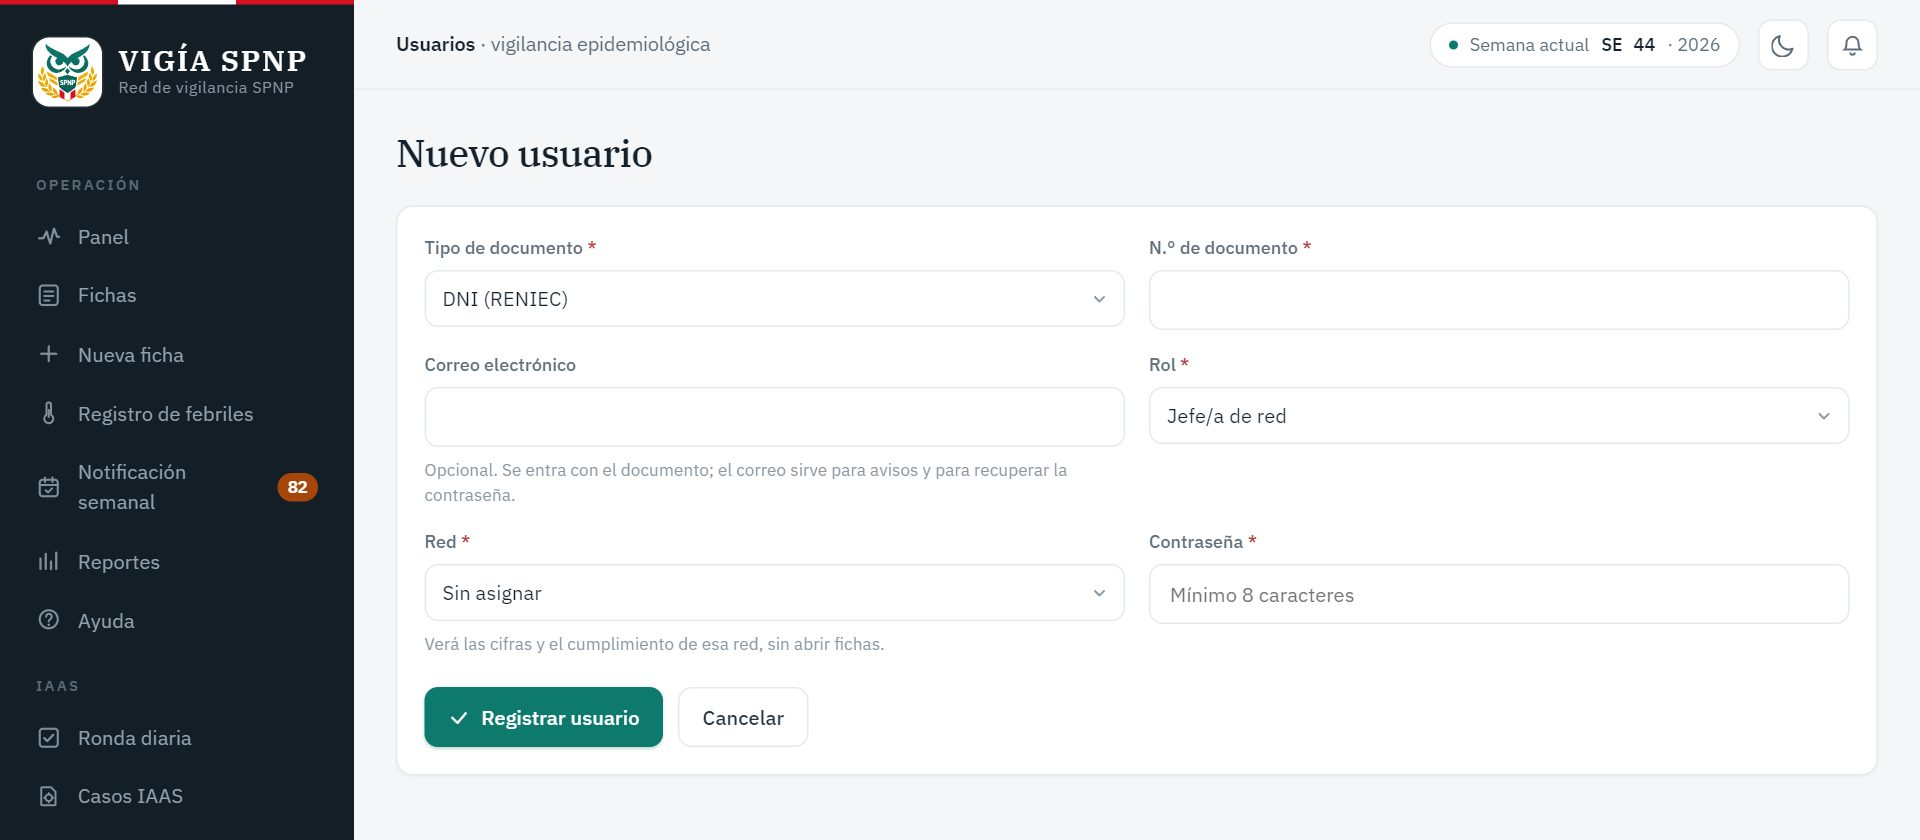
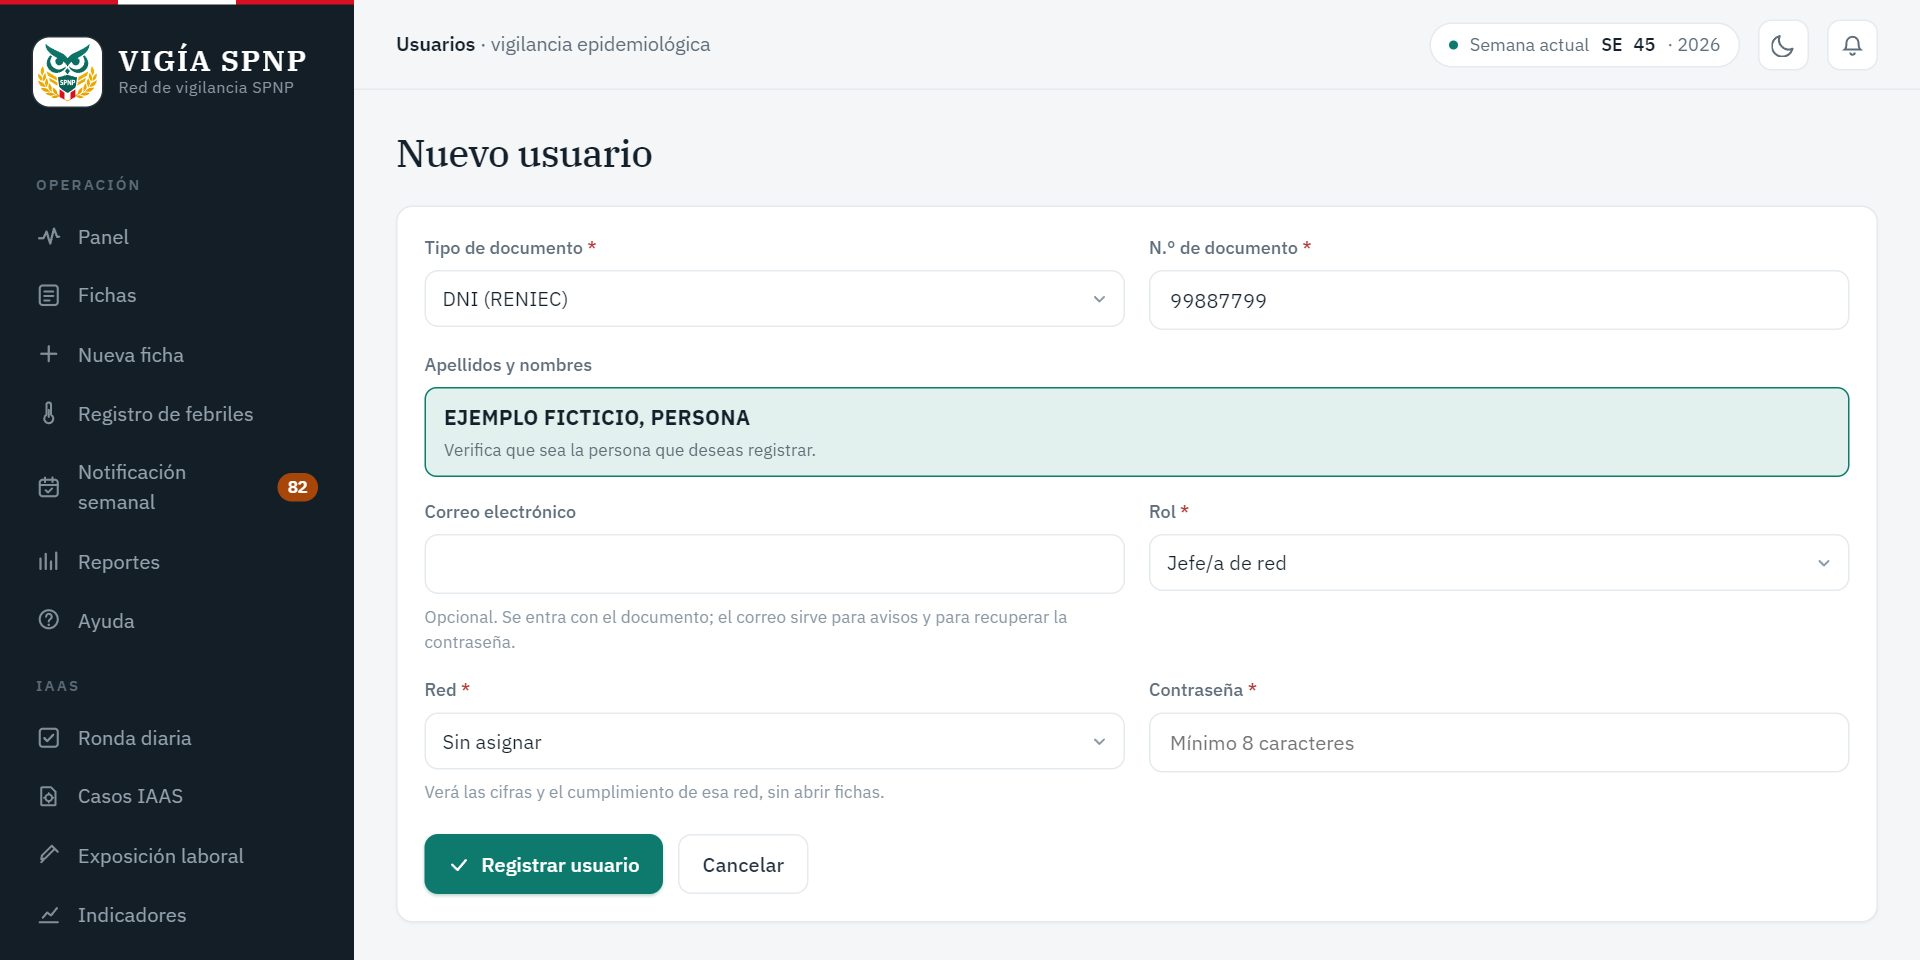
Nuevo usuario: apellidos y nombres del documento antes de guardar
Al escribir el documento, el formulario consulta el padrón local y
RENIEC (la misma búsqueda que al guardar) y muestra a quién corresponde,
con aviso si ya tiene usuario. Si no aparece, abre los campos para
digitar los datos. Guía del administrador y su captura actualizadas.

diff --git a/public/js/usuario-documento.js b/public/js/usuario-documento.js
@@ -1,0 +1,66 @@
+// Formulario de usuario (2026-11-09): al ingresar el documento se muestran los
+// apellidos y nombres (padrón local o RENIEC) para confirmar que es la persona
+// correcta. Si no aparece, se abren los campos para digitarlos.
+(function () {
+  var tipo = document.getElementById('usuarioTipoDoc');
+  var num = document.getElementById('usuarioNumDoc');
+  var caja = document.getElementById('usuarioPersona');
+  if (!tipo || !num || !caja) return;
+  var manuales = document.querySelectorAll('[data-manual]');
+  // Con el nombre ya pintado por el servidor, no se repite la búsqueda.
+  var ultima = caja.dataset.inicial ? caja.dataset.docInicial : '';
+  var pedido = 0;
+
+  function mostrarManual(si) {
+    manuales.forEach(function (c) {
+      c.hidden = !si;
+      c.querySelectorAll('[data-requerido]').forEach(function (i) { i.required = si; });
+    });
+  }
+  function pintar(clase, html) {
+    caja.className = 'usuario-persona' + (clase ? ' ' + clase : '');
+    caja.innerHTML = html;
+  }
+  function texto(t) { var d = document.createElement('div'); d.textContent = t; return d.innerHTML; }
+
+  function buscar() {
+    var t = tipo.value, n = num.value.trim();
+    if (t === 'DNI') { n = n.replace(/\D/g, ''); if (n !== num.value) num.value = n; }
+    var clave = t + '|' + n;
+    if (clave === ultima) return;
+    ultima = clave;
+    if (n === '' || (t === 'DNI' && n.length !== 8)) {
+      mostrarManual(false);
+      pintar('', n === '' ? 'Ingresa el documento para ver a quién corresponde.' : 'El DNI tiene 8 dígitos.');
+      return;
+    }
+    var este = ++pedido;
+    pintar('buscando', 'Buscando…');
+    var url = '/catalogos/usuarios/buscar-persona?' + new URLSearchParams({ tipo_doc: t, num_doc: n, excluir: caja.dataset.excluir || '' });
+    fetch(url, { headers: { 'Accept': 'application/json' }, credentials: 'same-origin' })
+      .then(function (r) { if (!r.ok) throw new Error(r.status); return r.json(); })
+      .then(function (d) {
+        if (este !== pedido) return;
+        if (d.estado === 'ENCONTRADA') {
+          mostrarManual(false);
+          pintar(d.aviso ? 'aviso' : 'ok', '<b>' + texto(d.nombre) + '</b><small>' + texto(d.aviso || 'Verifica que sea la persona que deseas registrar.') + '</small>');
+        } else if (d.estado === 'NO_ENCONTRADA') {
+          mostrarManual(true);
+          pintar('aviso', 'No se encontró en RENIEC ni en el padrón local. Completa los apellidos y nombres abajo.');
+        } else {
+          mostrarManual(false);
+          pintar('', texto(d.mensaje || 'Revisa el documento.'));
+        }
+      })
+      .catch(function () {
+        if (este !== pedido) return;
+        ultima = '';
+        pintar('aviso', 'No se pudo consultar ahora. Puedes guardar igual: el documento se verifica al registrar.');
+      });
+  }
+
+  num.addEventListener('input', function () { if (tipo.value === 'DNI' && num.value.replace(/\D/g, '').length === 8) buscar(); });
+  num.addEventListener('change', buscar);
+  num.addEventListener('blur', buscar);
+  tipo.addEventListener('change', buscar);
+})();

diff --git a/public/css/theme.css b/public/css/theme.css
@@ -1841,3 +1841,13 @@ html[data-theme="dark"] .iaas-sala:hover,html[data-theme="dark"] .iaas-opcion:ho
 .nav-item.active svg{color:var(--oro)}
 .auth-wordmark-pnp,.auth-statement h1 em{color:var(--oro)}
 .brand-name{letter-spacing:.08em;white-space:nowrap}
+
+/* Formulario de usuario (2026-11-09): apellidos y nombres del documento, para confirmar la persona. */
+.usuario-persona-campo{grid-column:1/-1}
+.usuario-persona{min-height:42px;display:flex;flex-direction:column;justify-content:center;gap:2px;padding:9px 12px;border:1px dashed var(--line);border-radius:var(--radius-sm);background:var(--surface-2);color:var(--muted);font-size:13px}
+.usuario-persona b{color:var(--ink);font-size:14px;letter-spacing:.01em}
+.usuario-persona small{font-size:11.5px;color:var(--muted)}
+.usuario-persona.ok{border-style:solid;border-color:var(--accent);background:var(--accent-soft)}
+.usuario-persona.aviso{border-style:solid;border-color:var(--ns-warn-line);background:var(--ns-warn-bg);color:var(--ink-2)}
+.usuario-persona.aviso small{color:var(--ink-2)}
+.usuario-persona.buscando{font-style:italic}

diff --git a/app/Views/catalogos/usuarios/formulario.php b/app/Views/catalogos/usuarios/formulario.php
@@ -3,6 +3,9 @@ use App\Core\Csrf;
 
 $esEdicion = !empty($usuario['id']);
 $accion = $esEdicion ? '/catalogos/usuarios/' . (int) $usuario['id'] : '/catalogos/usuarios';
+$manual = !empty($usuario['mostrar_manual']);
+// Nombre ya resuelto (edición, o el formulario devuelto con errores).
+$nombrePersona = !$manual ? trim((string) ($usuario['nombre_persona'] ?? $usuario['nombre'] ?? '')) : '';
 ?>
 <div class="page-head">
   <div>
@@ -18,7 +21,7 @@ $accion = $esEdicion ? '/catalogos/usuarios/' . (int) $usuario['id'] : '/catalog
         <div class="field">
           <label class="fl">Tipo de documento <span class="req">*</span></label>
           <div class="control <?= isset($errores['documento']) ? 'err' : '' ?>">
-            <select name="tipo_doc">
+            <select name="tipo_doc" id="usuarioTipoDoc">
               <option value="DNI" <?= seleccionado($usuario['tipo_doc'] ?? '', 'DNI') ?>>DNI (RENIEC)</option>
               <option value="CE" <?= seleccionado($usuario['tipo_doc'] ?? '', 'CE') ?>>Carnet de Extranjería</option>
               <option value="PAS" <?= seleccionado($usuario['tipo_doc'] ?? '', 'PAS') ?>>Pasaporte</option>
@@ -29,33 +32,37 @@ $accion = $esEdicion ? '/catalogos/usuarios/' . (int) $usuario['id'] : '/catalog
         <div class="field">
           <label class="fl">N.° de documento <span class="req">*</span></label>
           <div class="control <?= isset($errores['documento']) ? 'err' : '' ?>">
-            <input type="text" name="num_doc" value="<?= e($usuario['num_doc'] ?? '') ?>" required>
+            <input type="text" name="num_doc" id="usuarioNumDoc" value="<?= e($usuario['num_doc'] ?? '') ?>" required autocomplete="off">
           </div>
           <?php if (isset($errores['documento'])): ?><span class="hint err"><?= e($errores['documento']) ?></span><?php endif; ?>
         </div>
-        <?php if (!empty($usuario['mostrar_manual'])): ?>
-        <div class="field" style="flex-basis:100%;">
-          <p class="hint">No se encontró este documento en RENIEC ni en el padrón local. Completa los datos para registrarlo manualmente.</p>
-        </div>
-        <div class="field">
-          <label class="fl">Apellido paterno <span class="req">*</span></label>
-          <div class="control">
-            <input type="text" name="apellido_paterno" value="<?= e($usuario['apellido_paterno'] ?? '') ?>" required>
+        <?php // Apellidos y nombres del documento (2026-11-09): se ven antes de guardar, para confirmar que es la persona. ?>
+        <div class="field usuario-persona-campo">
+          <label class="fl">Apellidos y nombres</label>
+          <div class="usuario-persona <?= $nombrePersona !== '' ? 'ok' : '' ?>" id="usuarioPersona" aria-live="polite"
+               data-excluir="<?= $esEdicion ? (int) $usuario['id'] : '' ?>" data-inicial="<?= e($nombrePersona) ?>"
+               data-doc-inicial="<?= e(($usuario['tipo_doc'] ?? '') . '|' . ($usuario['num_doc'] ?? '')) ?>">
+            <?= $nombrePersona !== '' ? '<b>' . e($nombrePersona) . '</b>' : ($manual ? 'No se encontró en RENIEC ni en el padrón local. Completa los apellidos y nombres abajo.' : 'Ingresa el documento para ver a quién corresponde.') ?>
           </div>
         </div>
-        <div class="field">
+        <div class="field" data-manual <?= $manual ? '' : 'hidden' ?>>
+          <label class="fl">Apellido paterno <span class="req">*</span></label>
+          <div class="control">
+            <input type="text" name="apellido_paterno" value="<?= e($usuario['apellido_paterno'] ?? '') ?>" data-requerido <?= $manual ? 'required' : '' ?>>
+          </div>
+        </div>
+        <div class="field" data-manual <?= $manual ? '' : 'hidden' ?>>
           <label class="fl">Apellido materno</label>
           <div class="control">
             <input type="text" name="apellido_materno" value="<?= e($usuario['apellido_materno'] ?? '') ?>">
           </div>
         </div>
-        <div class="field">
+        <div class="field" data-manual <?= $manual ? '' : 'hidden' ?>>
           <label class="fl">Nombres <span class="req">*</span></label>
           <div class="control">
-            <input type="text" name="nombres" value="<?= e($usuario['nombres'] ?? '') ?>" required>
+            <input type="text" name="nombres" value="<?= e($usuario['nombres'] ?? '') ?>" data-requerido <?= $manual ? 'required' : '' ?>>
           </div>
         </div>
-        <?php endif; ?>
         <div class="field">
           <label class="fl">Correo electrónico</label>
           <div class="control mono <?= isset($errores['email']) ? 'err' : '' ?>">
@@ -120,3 +127,4 @@ $accion = $esEdicion ? '/catalogos/usuarios/' . (int) $usuario['id'] : '/catalog
   </div>
 </div>
 <script src="<?= e(asset('/js/usuario-rol.js')) ?>"></script>
+<script src="<?= e(asset('/js/usuario-documento.js')) ?>"></script>

diff --git a/app/Controllers/UsuariosController.php b/app/Controllers/UsuariosController.php
@@ -96,6 +96,9 @@ class UsuariosController extends Controller
         $persona = \App\Models\Persona::buscar((int)$usuario['persona_id']);
         $usuario['tipo_doc'] = $persona['tipo_doc'] ?? '';
         $usuario['num_doc'] = $persona['num_doc'] ?? '';
+        // El recuadro "Apellidos y nombres" muestra la persona del documento,
+        // no el nombre de la cuenta.
+        $usuario['nombre_persona'] = $persona ? \App\Models\Persona::nombreCompleto($persona) : '';
 
         $this->vista('catalogos/usuarios/formulario', [
             'tituloVista' => 'Editar usuario',
@@ -189,6 +192,49 @@ class UsuariosController extends Controller
 
         header('Location: /catalogos/usuarios');
         exit;
+    }
+
+    /**
+     * AJAX (ADMIN, 2026-11-09): apellidos y nombres del documento, para que
+     * el administrador confirme que es la persona correcta antes de crear el
+     * usuario. Misma búsqueda que al guardar (padrón local y luego RENIEC,
+     * PersonaService::buscarOCrear), así lo que se ve es lo que se guarda.
+     * ?excluir= es el usuario que se edita (no cuenta como duplicado).
+     */
+    public function buscarPersona(): void
+    {
+        Auth::exigirRol('ADMIN');
+        header('Content-Type: application/json; charset=utf-8');
+
+        $tipoDoc = trim((string) ($_GET['tipo_doc'] ?? ''));
+        $numDoc = trim((string) ($_GET['num_doc'] ?? ''));
+        $excluir = ctype_digit((string) ($_GET['excluir'] ?? '')) ? (int) $_GET['excluir'] : null;
+        if (!in_array($tipoDoc, ['DNI', 'CE', 'PAS', 'PTP'], true) || $numDoc === '' || strlen($numDoc) > 20) {
+            echo json_encode(['estado' => 'INVALIDO', 'mensaje' => 'Ingresa el tipo y el número de documento.'], JSON_UNESCAPED_UNICODE);
+            return;
+        }
+        if ($tipoDoc === 'DNI' && !preg_match('/^\d{8}$/', $numDoc)) {
+            echo json_encode(['estado' => 'INVALIDO', 'mensaje' => 'El DNI tiene 8 dígitos.'], JSON_UNESCAPED_UNICODE);
+            return;
+        }
+
+        $persona = \App\Services\PersonaService::buscarOCrear($tipoDoc, $numDoc);
+        if (!$persona) {
+            echo json_encode(['estado' => 'NO_ENCONTRADA'], JSON_UNESCAPED_UNICODE);
+            return;
+        }
+
+        $aviso = null;
+        if (Usuario::existePersona((int) $persona['id'], $excluir)) {
+            $aviso = 'Esta persona ya tiene un usuario.';
+        } elseif (Usuario::existeDocumento($numDoc, $excluir)) {
+            $aviso = 'Ya existe un usuario con este número de documento.';
+        }
+        echo json_encode([
+            'estado' => 'ENCONTRADA',
+            'nombre' => \App\Models\Persona::nombreCompleto($persona),
+            'aviso'  => $aviso,
+        ], JSON_UNESCAPED_UNICODE);
     }
 
     private function validar(array $entrada, ?int $idActual): array

diff --git a/app/Views/ayuda/administrador.php b/app/Views/ayuda/administrador.php
@@ -50,13 +50,14 @@ require __DIR__ . '/_inicio.php';
           <h3>Crear un usuario <?= $ir('/catalogos/usuarios/nuevo', 'Abrir') ?></h3>
           <ol class="guia-pasos">
             <li>Pulse <b>Nuevo usuario</b>. También puede usar <b>Asignar registrador</b> en Establecimientos, que deja elegido el establecimiento.</li>
-            <li>Elija el <b>Tipo de documento</b> y escriba el <b>N.º de documento</b>. Ese número es con el que la persona ingresará.</li>
+            <li>Elija el <b>Tipo de documento</b> y escriba el <b>N.º de documento</b>. Ese número es con el que la persona ingresará. Debajo aparecen sus <b>Apellidos y nombres</b>: compruebe que sea la persona correcta antes de seguir.</li>
             <li>Elija el <b>Rol</b>. Para <b>Registrador/a</b>, elija su <b>Establecimiento</b>. Para <b>Jefe/a de red</b>, elija su <b>Red</b>.</li>
             <li>Escriba una <b>Contraseña</b> de al menos 8 caracteres. El <b>Correo electrónico</b> es opcional.</li>
-            <li>Pulse <b>Registrar usuario</b>. Si el documento no aparece en RENIEC ni en el padrón, el sistema le pedirá también los apellidos y nombres.</li>
+            <li>Si el documento no aparece en RENIEC ni en el padrón, el formulario abre los campos para escribir los apellidos y nombres.</li>
+            <li>Pulse <b>Registrar usuario</b>.</li>
             <li>Entregue la contraseña de forma privada y pida a la persona que la cambie al primer ingreso, con el ícono de la llave.</li>
           </ol>
-          <?php $captura('admin-usuario-nuevo.jpg', 'Formulario Nuevo usuario con el rol Jefe/a de red elegido y el campo Red', 'Con Jefe/a de red, el formulario pide la red en lugar del establecimiento.'); ?>
+          <?php $captura('admin-usuario-nuevo.jpg', 'Formulario Nuevo usuario: tras el documento, el recuadro Apellidos y nombres con la persona encontrada; el rol Jefe/a de red y el campo Red', 'Al escribir el documento aparecen los apellidos y nombres. Con Jefe/a de red, el formulario pide la red en lugar del establecimiento.'); ?>
         </div>
 
         <div class="guia-sub" id="clave-usuario" data-bloque>

diff --git a/public/index.php b/public/index.php
@@ -471,6 +471,9 @@ $router->get('/catalogos/usuarios', function () {
 $router->get('/catalogos/usuarios/nuevo', function () {
     (new UsuariosController())->nuevo();
 });
+$router->get('/catalogos/usuarios/buscar-persona', function () {
+    (new UsuariosController())->buscarPersona();
+});
 $router->post('/catalogos/usuarios', function () {
     (new UsuariosController())->crear();
 });
